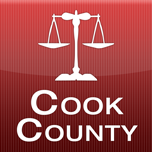
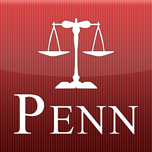
Penn Submitted

Changed region(s): [[0.0789, 0.3684, 0.9211, 0.9474], [0.2368, 0.0526, 0.7632, 0.3947]]

diff --git a/icsApp/icsApp/Constants.h b/icsApp/icsApp/Constants.h
@@ -22,7 +22,13 @@
 #define _API_BASE_URL                           @"https://pipeline-api.locallabs.com"
 #define _AUTHORIZATION_KEY                      @"Dq2LyMpU1nyhy5q8ST81"
 
-#define _APP_NAME                               @"Cook County Record"
+#define _APP_NAME                               @"Penn Record"
+
+#define _API_URL_SUFFIX_FEATURED            @"/api/v1/stories?status=published&sub_types=111&by_community=542"
+#define _API_URL_SUFFIX_LATEST              @"/api/v1/stories?status=published&sub_types=114&by_community=542"
+#define _API_URL_SUFFIX_OUR_VIEW            @"";
+#define _API_URL_SUFFIX_THEIR_VIEW          @"";
+#define _API_URL_SUFFIX_LETTER              @"";
 
 
 /* ics app */
@@ -35,23 +41,8 @@
 #define _API_URL_SUFFIX_LATEST              @"/api/v1/stories?status=published&sub_types=114&by_community=656"
 #define _API_URL_SUFFIX_OUR_VIEW            @""
 #define _API_URL_SUFFIX_THEIR_VIEW          @""
-#define _API_URL_SUFFIX_LETTER              @""
- */
+#define _API_URL_SUFFIX_LETTER              @""*/
 
-/* PENN */
-/*#define _API_URL_SUFFIX_FEATURED            @"/api/v1/stories?status=published&sub_types=111&by_community=542"
-#define _API_URL_SUFFIX_LATEST              @"/api/v1/stories?status=published&sub_types=114&by_community=542"
-#define _API_URL_SUFFIX_OUR_VIEW            @"";
-#define _API_URL_SUFFIX_THEIR_VIEW          @"";
-#define _API_URL_SUFFIX_LETTER              @"";*/
-
-/* Cook */
-
- #define _API_URL_SUFFIX_FEATURED            @"/api/v1/stories?status=published&sub_types=114&by_community=377"
- #define _API_URL_SUFFIX_LATEST              @"/api/v1/stories?status=published&sub_types=111&by_community=377"
- #define _API_URL_SUFFIX_OUR_VIEW            @""
- #define _API_URL_SUFFIX_THEIR_VIEW          @"/api/v1/stories?status=published&sub_types=546&by_community=377"
- #define _API_URL_SUFFIX_LETTER              @"/api/v1/stories?status=published&sub_types=547&by_community=377"
 
 /* Louis */
 /*

diff --git a/icsApp/icsApp/MyRequestHelper.m b/icsApp/icsApp/MyRequestHelper.m
@@ -38,17 +38,17 @@
     }
     else if (type == story_arg_letter){
         
-        stringURL = [NSString stringWithFormat:@"%@%@&per_page=%@&page=%@", _API_BASE_URL,_API_URL_SUFFIX_LETTER, perPage, page ];
+      // stringURL = [NSString stringWithFormat:@"%@%@&per_page=%@&page=%@", _API_BASE_URL,_API_URL_SUFFIX_LETTER, perPage, page ];
        
     }
     else if (type == story_arg_our_view){
         
-        stringURL = [NSString stringWithFormat:@"%@%@&per_page=%@&page=%@", _API_BASE_URL,_API_URL_SUFFIX_OUR_VIEW, perPage, page ];
+        //stringURL = [NSString stringWithFormat:@"%@%@&per_page=%@&page=%@", _API_BASE_URL,_API_URL_SUFFIX_OUR_VIEW, perPage, page ];
         
     }
     else if (type == story_arg_their_view){
         
-        stringURL = [NSString stringWithFormat:@"%@%@&per_page=%@&page=%@", _API_BASE_URL,_API_URL_SUFFIX_THEIR_VIEW, perPage, page ];
+       // stringURL = [NSString stringWithFormat:@"%@%@&per_page=%@&page=%@", _API_BASE_URL,_API_URL_SUFFIX_THEIR_VIEW, perPage, page ];
         
     }
 
